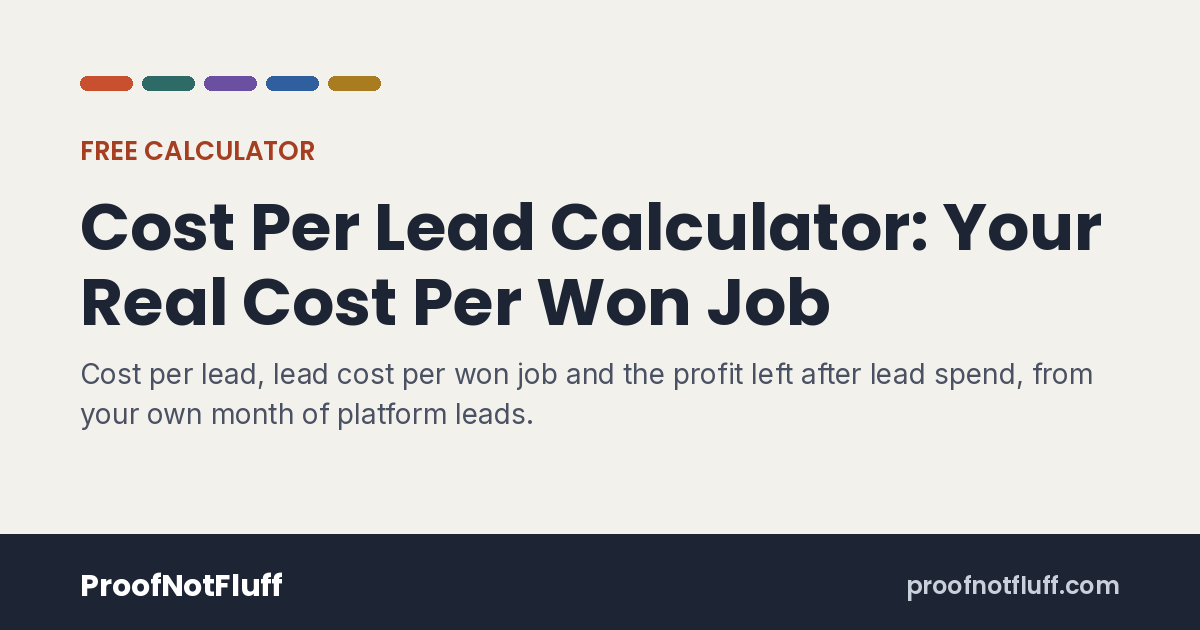
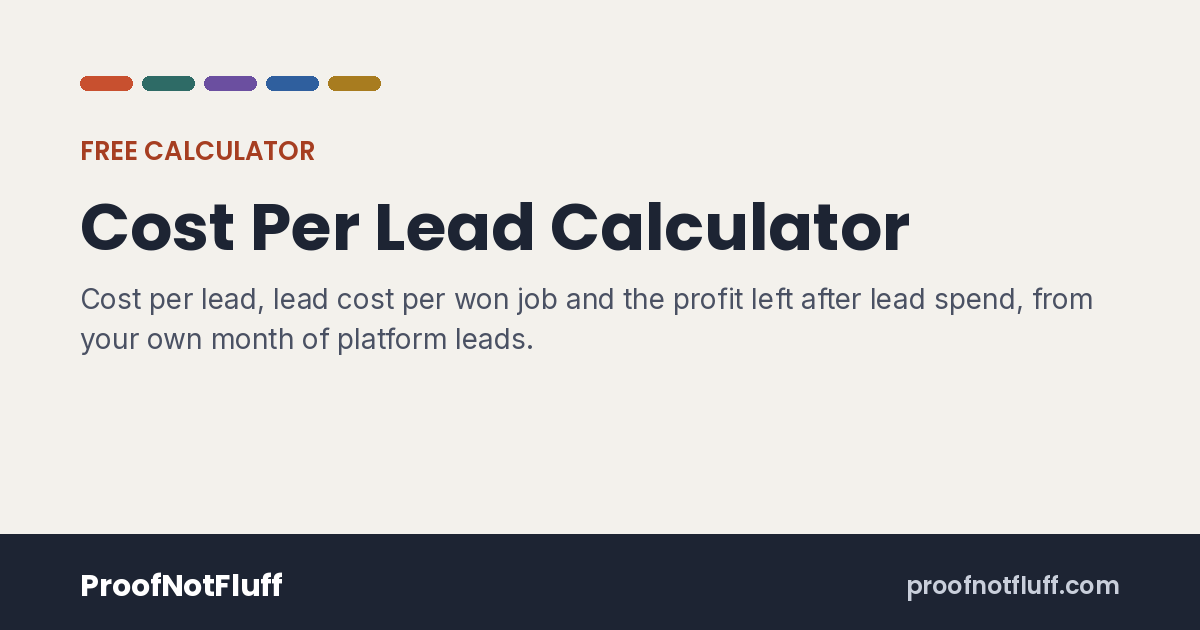
Lead cost calculator reworked to break-even only (still a draft, gates running); stage counts wired
Claude-Session: https://claude.ai/code/session_01EksLfs4N6Y2tHCuF8yD9S9

Changed region(s): [[0.0617, 0.4222, 0.925, 0.6937], [0.74, 0.3317, 0.925, 0.4222]]

diff --git a/docs/cost-per-lead-calculator/index.html b/docs/cost-per-lead-calculator/index.html
@@ -7,12 +7,12 @@
 <link rel="icon" href="../assets/favicon.svg" type="image/svg+xml">
 <link rel="preload" href="../assets/fonts/poppins-700.woff2" as="font" type="font/woff2" crossorigin>
 <link rel="stylesheet" href="../assets/pnf.css">
-<script type="application/ld+json">{"@context": "https://schema.org", "@type": "WebApplication", "name": "Cost Per Lead Calculator: Your Real Cost Per Won Job", "url": "https://proofnotfluff.com/cost-per-lead-calculator/", "applicationCategory": "BusinessApplication", "operatingSystem": "Any", "isAccessibleForFree": true, "offers": {"@type": "Offer", "price": "0", "priceCurrency": "USD"}, "publisher": {"@type": "Organization", "name": "ProofNotFluff"}}</script><script type="application/ld+json">{"@context": "https://schema.org", "@type": "FAQPage", "mainEntity": [{"@type": "Question", "name": "How do I calculate cost per lead?", "acceptedAnswer": {"@type": "Answer", "text": "Divide what you paid for leads by the number of leads you were charged for. In the example, $1,200 for 40 leads is $30.00 a lead."}}, {"@type": "Question", "name": "What is cost per won job?", "acceptedAnswer": {"@type": "Answer", "text": "Your lead spend divided by the jobs you won from those leads. In the example, $1,200 and 6 won jobs is $200.00 a job, though each lead cost $30.00."}}, {"@type": "Question", "name": "Are Angi or Thumbtack leads worth it?", "acceptedAnswer": {"@type": "Answer", "text": "Only your own numbers can say. If what a job leaves you after its direct cost is more than your lead cost per won job, the leads made money that month. In the example a job leaves $170.00 and the leads cost $200.00 per won job, so they lost $30.00 a job."}}, {"@type": "Question", "name": "What counts as the direct cost of a job?", "acceptedAnswer": {"@type": "Answer", "text": "What you spend only because you did that job: labor you pay for it, supplies or chemicals, gas and parking. Leave out the lead itself and the fixed bills you pay anyway."}}, {"@type": "Question", "name": "Will a platform give me a credit for a bad lead?", "acceptedAnswer": {"@type": "Answer", "text": "Each platform has its own rules and decides each request, so this page can't tell you. The checklist above lists records worth keeping if you ask."}}, {"@type": "Question", "name": "How are your City-record lists different from platform leads?", "acceptedAnswer": {"@type": "Answer", "text": "A platform lead is a person who asked for a quote. Our lists are City records, such as food inspections, new business licenses and building permits, sorted by trade. Nobody on them has asked for a quote, so you make the first contact."}}, {"@type": "Question", "name": "Is this financial advice?", "acceptedAnswer": {"@type": "Answer", "text": "No. It is arithmetic on the numbers you type."}}]}</script><script type="application/ld+json">{"@context": "https://schema.org", "@type": "BreadcrumbList", "itemListElement": [{"@type": "ListItem", "position": 1, "name": "Home", "item": "https://proofnotfluff.com/"}, {"@type": "ListItem", "position": 2, "name": "Free calculators", "item": "https://proofnotfluff.com/calculators/"}, {"@type": "ListItem", "position": 3, "name": "Cost Per Lead Calculator: Your Real Cost Per Won Job"}]}</script>
+<script type="application/ld+json">{"@context": "https://schema.org", "@type": "WebApplication", "name": "Cost Per Lead Calculator", "url": "https://proofnotfluff.com/cost-per-lead-calculator/", "applicationCategory": "BusinessApplication", "operatingSystem": "Any", "isAccessibleForFree": true, "offers": {"@type": "Offer", "price": "0", "priceCurrency": "USD"}, "publisher": {"@type": "Organization", "name": "ProofNotFluff"}}</script><script type="application/ld+json">{"@context": "https://schema.org", "@type": "FAQPage", "mainEntity": [{"@type": "Question", "name": "How do I calculate cost per lead?", "acceptedAnswer": {"@type": "Answer", "text": "Divide what you paid for leads by the number of leads you were charged for. In the example, $1,200 for 40 leads is $30.00 a lead."}}, {"@type": "Question", "name": "What is cost per won job?", "acceptedAnswer": {"@type": "Answer", "text": "Your lead spend divided by the jobs you won from those leads. In the example, $1,200 and 6 won jobs is $200.00 a job, though each lead cost $30.00."}}, {"@type": "Question", "name": "Are Angi or Thumbtack leads worth it?", "acceptedAnswer": {"@type": "Answer", "text": "Only your own numbers can say. If what a job leaves you after its direct cost is more than your lead cost per won job, the leads made money that month. In the example a job leaves $170.00 and the leads cost $200.00 per won job, so they lost $30.00 a job."}}, {"@type": "Question", "name": "What counts as the direct cost of a job?", "acceptedAnswer": {"@type": "Answer", "text": "What you spend only because you did that job: labor you pay for it, supplies or chemicals, gas and parking. Leave out the lead itself and the fixed bills you pay anyway."}}, {"@type": "Question", "name": "Will a platform give me a credit for a bad lead?", "acceptedAnswer": {"@type": "Answer", "text": "Each platform has its own rules and decides each request, so this page can't tell you. The checklist above lists records worth keeping if you ask."}}, {"@type": "Question", "name": "Do your lists cost less per won job than Angi or Thumbtack?", "acceptedAnswer": {"@type": "Answer", "text": "We can't say. Nobody on our lists has asked for a quote, and we have no data on how many records become jobs. The page shows break-even instead: the won jobs a month each list needs to cover its price, at your own job profit."}}, {"@type": "Question", "name": "How are your City-record lists different from platform leads?", "acceptedAnswer": {"@type": "Answer", "text": "A platform lead is a person who asked for a quote. Our lists are City records, such as food inspections, new business licenses and building permits, sorted by trade. Nobody on them has asked for a quote, so you make the first contact."}}, {"@type": "Question", "name": "Is this financial advice?", "acceptedAnswer": {"@type": "Answer", "text": "No. It is arithmetic on the numbers you type."}}]}</script><script type="application/ld+json">{"@context": "https://schema.org", "@type": "BreadcrumbList", "itemListElement": [{"@type": "ListItem", "position": 1, "name": "Home", "item": "https://proofnotfluff.com/"}, {"@type": "ListItem", "position": 2, "name": "Free calculators", "item": "https://proofnotfluff.com/calculators/"}, {"@type": "ListItem", "position": 3, "name": "Cost Per Lead Calculator"}]}</script>
 </head><body class="has-mbar">
 <a class="skip" href="#main">Skip to content</a>
 <header class="top"><div class="wrap"><a class="brandlink" href="../"><span class="brand">ProofNotFluff</span><span class="bars" aria-hidden="true"><i></i><i></i><i></i><i></i><i></i></span></a>
 <nav class="top" aria-label="Main"><a href="../shop/">Shop</a><a href="../calculators/" aria-current="page">Free calculators</a><a href="../questions/">Questions</a></nav></div></header>
-<main class="wrap" id="main"><nav class="crumbs" aria-label="Breadcrumb"><ol><li><a href="../">Home</a></li><li><a href="../calculators/">Free calculators</a></li><li aria-current="page">Cost Per Lead Calculator: Your Real Cost Per Won Job</li></ol></nav><p class="eyebrow">Free calculator</p><h1>Cost Per Lead Calculator: Your Real Cost Per Won Job</h1><p class="lede">For cleaning and pest control owners who pay Angi, Thumbtack, HomeAdvisor or a similar site for leads. Type one month of lead spend, leads, quotes and jobs won. You get your cost per lead, the lead cost of each job you actually won, and the profit those jobs left after the lead bill. The math is the same for any trade that buys leads. Free, no sign-up.</p><div class="grid"><form class="card" id="calc" novalidate>
+<main class="wrap" id="main"><nav class="crumbs" aria-label="Breadcrumb"><ol><li><a href="../">Home</a></li><li><a href="../calculators/">Free calculators</a></li><li aria-current="page">Cost Per Lead Calculator</li></ol></nav><p class="eyebrow">Free calculator</p><h1>Cost Per Lead Calculator</h1><p class="lede">For cleaning and pest control owners who pay Angi, Thumbtack, HomeAdvisor or a similar site for leads. Type one month of lead spend, leads, quotes and jobs won. You get your cost per lead, the lead cost of each job you actually won, and the profit those jobs left after the lead bill. The math is the same for any trade that buys leads. Free, no sign-up.</p><div class="grid"><form class="card" id="calc" novalidate>
 <fieldset><legend>One month of platform leads</legend>
 <div class="row"><label for="spend">What you paid for leads this month<small>Angi, Thumbtack, HomeAdvisor, Bark, Google and the like, all together</small></label><div class="field has-pre"><span class=pre>$</span><input id="spend" data-in="spend" type="text" inputmode="decimal" value="1,200" autocomplete="off"></div></div>
 <div class="row"><label for="leads">Leads you paid for<small>Every lead charged, good or bad</small></label><div class="field"><input id="leads" data-in="leads" type="text" inputmode="decimal" value="40" autocomplete="off"></div></div>
@@ -22,12 +22,15 @@
 <fieldset><legend>An average won job</legend>
 <div class="row"><label for="avgJob">Average job revenue<small>What the customer pays for one job</small></label><div class="field has-pre"><span class=pre>$</span><input id="avgJob" data-in="avgJob" type="text" inputmode="decimal" value="280" autocomplete="off"></div></div>
 <div class="row"><label for="jobCost">Direct cost of one job<small>Labor you pay, supplies or chemicals, gas. Not the lead.</small></label><div class="field has-pre"><span class=pre>$</span><input id="jobCost" data-in="jobCost" type="text" inputmode="decimal" value="110" autocomplete="off"></div></div>
+</fieldset>
+<fieldset><legend>A scenario on your numbers (optional)</legend>
+<div class="row"><label for="scenJobs">Won jobs a month a City-record list might bring you<small>Your own guess. We have no data on how many records become jobs</small></label><div class="field"><input id="scenJobs" data-in="scenJobs" type="text" inputmode="decimal" value="1" autocomplete="off"></div></div>
 </fieldset></form><div class="sticky"><div class="card" aria-live="polite">
 <div class="tiles">
-<div class="tile key"><div class="lab">Lead cost per won job</div><div class="val" data-out="cpj" data-never="No jobs yet" data-never-if="noJobs">$0</div><div class="sub">What you paid in leads for each yes</div></div>
+<div class="tile key"><div class="lab">Lead cost per won job</div><div class="val" data-out="cpj" data-never="No jobs yet" data-never-if="cpjNone">$0</div><div class="sub">What you paid in leads for each yes</div></div>
 <div class="tile"><div class="lab">Cost per lead</div><div class="val" data-out="cpl">$0</div><div class="sub">Per quote: <span data-out="cpq">$0</span></div></div>
 <div class="tile"><div class="lab">Profit left after lead spend</div><div class="val" data-out="profit" data-fmt="money0">$0</div><div class="sub">This month, all won jobs</div></div>
-<div class="tile"><div class="lab">Leads that became jobs</div><div class="val" data-pct="leadToJob">0%</div><div class="sub">Quotes won: <span data-pct="winRate">0%</span></div></div>
+<div class="tile"><div class="lab">Most a won job can cost</div><div class="val" data-out="maxCost">$0</div><div class="sub">In leads, before the job loses money</div></div>
 </div>
 <ul class="lines">
 <li><span>Revenue from won jobs</span><span data-out="revenue" data-fmt="money0">$0</span></li>
@@ -38,6 +41,8 @@
 <li><span>One job: profit before the lead</span><span data-out="perJob">$0</span></li>
 <li><span>One job: after its share of lead spend</span><span data-out="afterLead">$0</span></li>
 <li><span>Lead spend as a share of job revenue</span><span data-pct="leadShare">0%</span></li>
+<li><span>Leads that became jobs</span><span data-pct="leadToJob">0%</span></li>
+<li><span>Quotes won</span><span data-pct="winRate">0%</span></li>
 </ul>
 <div class="callout" data-show-if="pos > 0">Leads ate <b data-pct="eatsShare">0%</b> of what each job left you. You need <b data-out="breakEvenJobs" data-fmt="int">0</b> won jobs a month to cover this lead spend.</div>
 <div class="callout warn" data-show-if="neg > 0">These leads cost <b data-out="loss" data-fmt="money0">$0</b> more than the jobs left you. You needed <b data-out="breakEvenJobs" data-fmt="int">0</b> won jobs, not <b data-out="jobs" data-fmt="int">0</b>, to cover the spend.</div>
@@ -46,7 +51,7 @@
 <div class="callout warn" data-show-if="odd > 0">More quotes than leads, or more jobs than quotes? Check the counts: the rates below the tiles use them.</div>
 <div class="callout warn" data-show-if="none > 0">Type one month of lead spend, leads and jobs.</div>
 </div></div>
-<div class="mbar" aria-hidden="true"><span>Per won job <b data-out="cpj">$0</b></span><span>Profit <b data-out="profit" data-fmt="money0">$0</b></span></div></div><section class="block" id="compare"><h2>How that compares with our City-record lists</h2><p>A platform lead is a person who asked for a quote. Our lists are something else: the City&#x27;s own public records, cleaned and sorted by trade, such as a restaurant whose latest inspection cited pests or a business that just got its license. Nobody on them has asked for a quote, and you make the first contact, so we can&#x27;t tell you how many become jobs and we don&#x27;t guess.</p><p>What you can compare is price against what one job leaves you. The last column uses the job profit you typed above: the won jobs a month a list needs before it pays for itself.</p><table class="mt lc-tbl"><thead><tr><th scope="col">List</th><th scope="col">Price</th><th scope="col">Jobs to pay for it</th></tr></thead><tbody><tr><th scope="row"><b>Chicago Restaurant Inspection Leads</b><br><small>For pest control. 89 Chicago food places failed or passed with conditions with a pest violation in the last 30 days (City data pulled Oct 24, 2026)</small></th><td>$39<br><small>a month</small></td><td><span data-out="cover0" data-fmt="int" data-never="None" data-never-if="coverNever0">0</span></td></tr><tr><th scope="row"><b>Chicago New Business Licenses</b><br><small>For commercial cleaning and pest control. 63 new business licenses at Chicago business sites in the latest week, 236 in 30 days (City data pulled Oct 24, 2026)</small></th><td>$29<br><small>a month</small></td><td><span data-out="cover1" data-fmt="int" data-never="None" data-never-if="coverNever1">0</span></td></tr><tr><th scope="row"><b>Chicago Construction Cleaning Leads</b><br><small>For post-construction cleaning. 1,133 open Chicago projects of $500,000 or more, 21 of them near finish (City data pulled Oct 19, 2026)</small></th><td>$29<br><small>a month</small></td><td><span data-out="cover2" data-fmt="int" data-never="None" data-never-if="coverNever2">0</span></td></tr><tr><th scope="row"><b>Austin Construction Cleaning Leads</b><br><small>For post-construction cleaning in Austin. 158 open Austin projects of $500,000 or more (City data pulled Oct 19, 2026)</small></th><td>$29<br><small>a month</small></td><td><span data-out="cover3" data-fmt="int" data-never="None" data-never-if="coverNever3">0</span></td></tr></tbody></table><p class="asof">Prices are each list&#x27;s price today. Counts come from each list&#x27;s own page and change every week.</p><div class="st-grid lc-cards"><article class="st-card"><div class="st-top"><span class="st-tag">Chicago · Restaurants</span><span class="st-price">$39<small> a month</small></span></div><h3>Chicago Restaurant Inspection Leads</h3><p>Fresh failed or conditional City inspections, sorted by violation, and places about to open.</p><div class="st-nums"><div><b>128</b><span>failed or conditional in our four categories, 30 days</span></div><div><b>131</b><span>license inspections, about to open</span></div></div><p>For hood cleaning, pest control, grease trap and kitchen cleaning companies.</p><div class="st-act"><a class="btn" href="../chicago-restaurant-inspection-leads/#sample">See this week's free sample</a><a class="st-btn2" href="https://proofnotfluff.gumroad.com/l/mlyiiz?utm_source=proofnotfluff&amp;utm_medium=calculator&amp;utm_campaign=chicago-restaurant-leads&amp;utm_content=cost-per-lead-calculator" rel="noopener">Start your 7-day free trial</a></div><p class="st-note st-trialnote">Card at checkout, nothing charged for 7 days. Cancel any time.</p></article><article class="st-card"><div class="st-top"><span class="st-tag">Chicago · New businesses</span><span class="st-price">$29<small> a month</small></span></div><h3>Chicago New Business Licenses</h3><p>New Chicago business licenses from the last 30 days, sorted by trade, with what the City&#x27;s record says about each business.</p><div class="st-nums"><div><b>236</b><span>new business licenses, last 30 days</span></div><div><b>63</b><span>licensed this week</span></div></div><p>For commercial cleaning and pest control companies, and any vendor who sells to new businesses.</p><div class="st-act"><a class="btn" href="../chicago-new-business-licenses/#sample">See this week's free sample</a><a class="st-btn2" href="https://proofnotfluff.gumroad.com/l/chicago-new-business-licenses?utm_source=proofnotfluff&amp;utm_medium=calculator&amp;utm_campaign=chicago-new-business-licenses&amp;utm_content=cost-per-lead-calculator" rel="noopener">Start your 7-day free trial</a></div><p class="st-note st-trialnote">Card at checkout, nothing charged for 7 days. Cancel any time.</p></article><article class="st-card"><div class="st-top"><span class="st-tag">Chicago · Construction</span><span class="st-price">$29<small> a month</small></span></div><h3>Chicago Construction Cleaning Leads</h3><p>Open apartment and commercial projects of $500,000 or more, the builder on each, closest to a final clean first.</p><div class="st-nums"><div><b>1,133</b><span>open projects, about $8.7 billion</span></div><div><b>21</b><span>near finish</span></div></div><p>For post-construction cleaning, window cleaning and pressure washing companies.</p><div class="st-act"><a class="btn" href="../chicago-construction-cleaning-leads/#near">See this week's free sample</a><a class="st-btn2" href="https://proofnotfluff.gumroad.com/l/vpnaoq?utm_source=proofnotfluff&amp;utm_medium=calculator&amp;utm_campaign=chicago-leads&amp;utm_content=cost-per-lead-calculator" rel="noopener">Start your 7-day free trial</a></div><p class="st-note st-trialnote">Card at checkout, nothing charged for 7 days. Cancel any time.</p></article><article class="st-card"><div class="st-top"><span class="st-tag">Austin · Construction</span><span class="st-price">$29<small> a month</small></span></div><h3>Austin Construction Cleaning Leads</h3><p>Open commercial and apartment projects of $500,000 or more in Austin and the builders running them.</p><div class="st-nums"><div><b>158</b><span>open projects, about $6.24 billion</span></div><div><b>104</b><span>new buildings, at least 8,303 homes</span></div></div><p>For post-construction cleaning, window cleaning and pressure washing companies.</p><div class="st-act"><a class="btn" href="../austin-construction-cleaning-leads/#near">See this week's free sample</a><a class="st-btn2" href="https://proofnotfluff.gumroad.com/l/vzokd?utm_source=proofnotfluff&amp;utm_medium=calculator&amp;utm_campaign=austin-construction-leads&amp;utm_content=cost-per-lead-calculator" rel="noopener">Start your 7-day free trial</a></div><p class="st-note st-trialnote">Card at checkout, nothing charged for 7 days. Cancel any time.</p></article></div></section><section class="block"><details class="lc-keep"><summary>Records worth keeping if you ask a platform for a credit</summary><p>Each platform sets its own rules for lead credits and decides each request. If you plan to ask, keep these records for every lead you dispute:</p><ul class="checks"><li>The date and time the lead arrived and the amount you were charged for it.</li><li>The request exactly as the platform sent it: the service, the location and the job details.</li><li>Every call, text and message you sent the customer, with the time.</li><li>What did not match: a wrong or disconnected number, a duplicate, a job outside your service area, or a service you don&#x27;t offer.</li><li>Screenshots of the lead and the charge, taken the day it arrived.</li><li>The platform&#x27;s credit rule as it read that day, with the date you copied it.</li></ul><p>Good records don&#x27;t mean a credit will be given. Check the platform&#x27;s current rules before you ask.</p></details></section><section class="block"><h2>How it works</h2><p>Cost per lead is what you paid for leads divided by the leads you were charged for. Cost per won job divides the same spend by the jobs you won, so it carries the leads that went nowhere. That second number is the one to set against what a job leaves you.</p><p>Profit left after lead spend is the revenue from the jobs you won, less their direct cost (labor you pay, supplies or chemicals, gas) and less the month&#x27;s lead bill. Your own time and fixed bills such as insurance and the truck payment stay out, so this is what the leads left you to cover them.</p><p>The rates come from your own counts: leads that became quotes, quotes that became jobs. The page uses nobody else&#x27;s close rates, and neither does the comparison with our lists.</p></section><section class="block"><h2>A worked example</h2><p>Say a house cleaner paid $1,200 for 40 leads in a month, sent 18 quotes and won 6 jobs at $280 each, with $110 of labor, supplies and gas per job. That is $30.00 a lead, $66.67 a quote and $200.00 in leads for each job won. The 6 jobs brought in $1,680 and cost $660 to do, leaving $1,020, so after the $1,200 lead bill the month lost $180. Each job left $170.00 before its lead cost and $30.00 less than nothing after it; covering that lead bill took 8 won jobs, not 6.</p></section><section class="block"><h2>Questions</h2><details><summary>How do I calculate cost per lead?</summary><p>Divide what you paid for leads by the number of leads you were charged for. In the example, $1,200 for 40 leads is $30.00 a lead.</p></details><details><summary>What is cost per won job?</summary><p>Your lead spend divided by the jobs you won from those leads. In the example, $1,200 and 6 won jobs is $200.00 a job, though each lead cost $30.00.</p></details><details><summary>Are Angi or Thumbtack leads worth it?</summary><p>Only your own numbers can say. If what a job leaves you after its direct cost is more than your lead cost per won job, the leads made money that month. In the example a job leaves $170.00 and the leads cost $200.00 per won job, so they lost $30.00 a job.</p></details><details><summary>What counts as the direct cost of a job?</summary><p>What you spend only because you did that job: labor you pay for it, supplies or chemicals, gas and parking. Leave out the lead itself and the fixed bills you pay anyway.</p></details><details><summary>Will a platform give me a credit for a bad lead?</summary><p>Each platform has its own rules and decides each request, so this page can&#x27;t tell you. The checklist above lists records worth keeping if you ask.</p></details><details><summary>How are your City-record lists different from platform leads?</summary><p>A platform lead is a person who asked for a quote. Our lists are City records, such as food inspections, new business licenses and building permits, sorted by trade. Nobody on them has asked for a quote, so you make the first contact.</p></details><details><summary>Is this financial advice?</summary><p>No. It is arithmetic on the numbers you type.</p></details></section></main>
+<div class="mbar" aria-hidden="true"><span>Per won job <b data-out="cpj">$0</b></span><span>Profit <b data-out="profit" data-fmt="money0">$0</b></span></div></div><section class="block" id="compare"><h2>Break-even against our City-record lists</h2><p>A platform lead is a person who asked for a quote. Our lists are something else: the City&#x27;s own public records, cleaned and sorted by trade, such as a restaurant whose latest inspection cited pests or a business that just got its license. Nobody on them has asked for a quote, and you make the first contact.</p><p>So this section shows break-even only, on your numbers: how many won jobs a month each list needs to cover its price at your job profit, and what it would leave you if it won the number of jobs you guessed above. We don&#x27;t say any list costs less per won job than a platform, because we have no data on how many records become jobs.</p><table class="mt lc-tbl"><thead><tr><th scope="col">List</th><th scope="col">Price</th><th scope="col">Jobs to cover it</th><th scope="col">At your guess</th></tr></thead><tbody><tr><th scope="row"><b>Chicago Restaurant Inspection Leads</b><br><small>For pest control</small></th><td>$39<br><small>a month</small></td><td><span data-out="cover0" data-fmt="int" data-never="None" data-never-if="coverNever0">0</span></td><td><span data-out="scen0" data-fmt="money0">$0</span></td></tr><tr><th scope="row"><b>Chicago New Business Licenses</b><br><small>For commercial cleaning and pest control</small></th><td>$29<br><small>a month</small></td><td><span data-out="cover1" data-fmt="int" data-never="None" data-never-if="coverNever1">0</span></td><td><span data-out="scen1" data-fmt="money0">$0</span></td></tr><tr><th scope="row"><b>Chicago Construction Cleaning Leads</b><br><small>For post-construction cleaning</small></th><td>$29<br><small>a month</small></td><td><span data-out="cover2" data-fmt="int" data-never="None" data-never-if="coverNever2">0</span></td><td><span data-out="scen2" data-fmt="money0">$0</span></td></tr><tr><th scope="row"><b>Austin Construction Cleaning Leads</b><br><small>For post-construction cleaning in Austin</small></th><td>$29<br><small>a month</small></td><td><span data-out="cover3" data-fmt="int" data-never="None" data-never-if="coverNever3">0</span></td><td><span data-out="scen3" data-fmt="money0">$0</span></td></tr></tbody></table><p class="asof">Prices are each list&#x27;s price today. Each card&#x27;s counts come from that list&#x27;s own page and change every week.</p><div class="st-grid lc-cards"><article class="st-card"><div class="st-top"><span class="st-tag">Chicago · Restaurants</span><span class="st-price">$39<small> a month</small></span></div><h3>Chicago Restaurant Inspection Leads</h3><p>Fresh failed or conditional City inspections, sorted by violation, and places about to open.</p><div class="st-nums"><div><b>128</b><span>failed or conditional in our four categories, 30 days</span></div><div><b>131</b><span>license inspections, about to open</span></div></div><p>For hood cleaning, pest control, grease trap and kitchen cleaning companies.</p><div class="st-act"><a class="btn" href="../chicago-restaurant-inspection-leads/#sample">See this week's free sample</a><a class="st-btn2" data-stage="upgrade" href="https://proofnotfluff.gumroad.com/l/mlyiiz?utm_source=proofnotfluff&amp;utm_medium=calculator&amp;utm_campaign=chicago-restaurant-leads&amp;utm_content=cost-per-lead-calculator" rel="noopener">Start your 7-day free trial</a></div><p class="st-note st-trialnote">Card at checkout, nothing charged for 7 days. Cancel any time.</p></article><article class="st-card"><div class="st-top"><span class="st-tag">Chicago · New businesses</span><span class="st-price">$29<small> a month</small></span></div><h3>Chicago New Business Licenses</h3><p>New Chicago business licenses from the last 30 days, sorted by trade, with what the City&#x27;s record says about each business.</p><div class="st-nums"><div><b>236</b><span>new business licenses, last 30 days</span></div><div><b>63</b><span>licensed this week</span></div></div><p>For commercial cleaning and pest control companies, and any vendor who sells to new businesses.</p><div class="st-act"><a class="btn" href="../chicago-new-business-licenses/#sample">See this week's free sample</a><a class="st-btn2" data-stage="upgrade" href="https://proofnotfluff.gumroad.com/l/chicago-new-business-licenses?utm_source=proofnotfluff&amp;utm_medium=calculator&amp;utm_campaign=chicago-new-business-licenses&amp;utm_content=cost-per-lead-calculator" rel="noopener">Start your 7-day free trial</a></div><p class="st-note st-trialnote">Card at checkout, nothing charged for 7 days. Cancel any time.</p></article><article class="st-card"><div class="st-top"><span class="st-tag">Chicago · Construction</span><span class="st-price">$29<small> a month</small></span></div><h3>Chicago Construction Cleaning Leads</h3><p>Open apartment and commercial projects of $500,000 or more, the builder on each, closest to a final clean first.</p><div class="st-nums"><div><b>1,133</b><span>open projects, about $8.7 billion</span></div><div><b>21</b><span>near finish</span></div></div><p>For post-construction cleaning, window cleaning and pressure washing companies.</p><div class="st-act"><a class="btn" href="../chicago-construction-cleaning-leads/#near">See this week's free sample</a><a class="st-btn2" data-stage="upgrade" href="https://proofnotfluff.gumroad.com/l/vpnaoq?utm_source=proofnotfluff&amp;utm_medium=calculator&amp;utm_campaign=chicago-leads&amp;utm_content=cost-per-lead-calculator" rel="noopener">Start your 7-day free trial</a></div><p class="st-note st-trialnote">Card at checkout, nothing charged for 7 days. Cancel any time.</p></article><article class="st-card"><div class="st-top"><span class="st-tag">Austin · Construction</span><span class="st-price">$29<small> a month</small></span></div><h3>Austin Construction Cleaning Leads</h3><p>Open commercial and apartment projects of $500,000 or more in Austin and the builders running them.</p><div class="st-nums"><div><b>158</b><span>open projects, about $6.24 billion</span></div><div><b>104</b><span>new buildings, at least 8,303 homes</span></div></div><p>For post-construction cleaning, window cleaning and pressure washing companies.</p><div class="st-act"><a class="btn" href="../austin-construction-cleaning-leads/#near">See this week's free sample</a><a class="st-btn2" data-stage="upgrade" href="https://proofnotfluff.gumroad.com/l/vzokd?utm_source=proofnotfluff&amp;utm_medium=calculator&amp;utm_campaign=austin-construction-leads&amp;utm_content=cost-per-lead-calculator" rel="noopener">Start your 7-day free trial</a></div><p class="st-note st-trialnote">Card at checkout, nothing charged for 7 days. Cancel any time.</p></article></div></section><section class="block"><h2>If you ask a platform for a credit</h2><p>Each platform sets its own rules for lead credits and decides each request. If you plan to ask, these records are worth keeping for every lead you dispute:</p><ul class="checks"><li>The date and time the lead arrived and the amount you were charged for it.</li><li>The request exactly as the platform sent it: the service, the location and the job details.</li><li>Every call, text and message you sent the customer, with the time.</li><li>What did not match: a wrong or disconnected number, a duplicate, a job outside your service area, or a service you don&#x27;t offer.</li><li>Screenshots of the lead and the charge, taken the day it arrived.</li><li>The platform&#x27;s credit rule as it read that day, with the date you copied it.</li></ul><p>Good records don&#x27;t mean a credit will be given. Check the platform&#x27;s current rules before you ask.</p></section><section class="block"><h2>How it works</h2><p>Cost per lead is what you paid for leads divided by the leads you were charged for. Cost per won job divides the same spend by the jobs you won, so it carries the leads that went nowhere. That second number is the one to set against what a job leaves you.</p><p>Profit left after lead spend is the revenue from the jobs you won, less their direct cost (labor you pay, supplies or chemicals, gas) and less the month&#x27;s lead bill. Your own time and fixed bills such as insurance and the truck payment stay out, so this is what the leads left you to cover them.</p><p>The most a won job can cost is what one job leaves you before the lead: average job revenue less its direct cost. Pay more than that in leads for each job you win and the jobs lose money.</p><p>The rates come from your own counts: leads that became quotes, quotes that became jobs. The page uses nobody else&#x27;s close rates. The break-even against our lists uses only our prices, your job profit and your own guess of jobs.</p></section><section class="block"><h2>A worked example</h2><p>Say a house cleaner paid $1,200 for 40 leads in a month, sent 18 quotes and won 6 jobs at $280 each, with $110 of labor, supplies and gas per job. That is $30.00 a lead, $66.67 a quote and $200.00 in leads for each job won. The 6 jobs brought in $1,680 and cost $660 to do, leaving $1,020, so after the $1,200 lead bill the month lost $180. Each job left $170.00 before its lead cost and $30.00 less than nothing after it; covering that lead bill took 8 won jobs, not 6. The most a won job could cost was $170.00, so each one ran $30.00 over. At that job profit, one won job a month covers a $39 or a $29 list; if a list won 1 job a month, the guess in the example, it would leave $131 after a $39 price.</p></section><section class="block"><h2>Questions</h2><details><summary>How do I calculate cost per lead?</summary><p>Divide what you paid for leads by the number of leads you were charged for. In the example, $1,200 for 40 leads is $30.00 a lead.</p></details><details><summary>What is cost per won job?</summary><p>Your lead spend divided by the jobs you won from those leads. In the example, $1,200 and 6 won jobs is $200.00 a job, though each lead cost $30.00.</p></details><details><summary>Are Angi or Thumbtack leads worth it?</summary><p>Only your own numbers can say. If what a job leaves you after its direct cost is more than your lead cost per won job, the leads made money that month. In the example a job leaves $170.00 and the leads cost $200.00 per won job, so they lost $30.00 a job.</p></details><details><summary>What counts as the direct cost of a job?</summary><p>What you spend only because you did that job: labor you pay for it, supplies or chemicals, gas and parking. Leave out the lead itself and the fixed bills you pay anyway.</p></details><details><summary>Will a platform give me a credit for a bad lead?</summary><p>Each platform has its own rules and decides each request, so this page can&#x27;t tell you. The checklist above lists records worth keeping if you ask.</p></details><details><summary>Do your lists cost less per won job than Angi or Thumbtack?</summary><p>We can&#x27;t say. Nobody on our lists has asked for a quote, and we have no data on how many records become jobs. The page shows break-even instead: the won jobs a month each list needs to cover its price, at your own job profit.</p></details><details><summary>How are your City-record lists different from platform leads?</summary><p>A platform lead is a person who asked for a quote. Our lists are City records, such as food inspections, new business licenses and building permits, sorted by trade. Nobody on them has asked for a quote, so you make the first contact.</p></details><details><summary>Is this financial advice?</summary><p>No. It is arithmetic on the numbers you type.</p></details></section></main>
 <footer><div class="wrap">
 <nav class="fnav" aria-label="Footer"><a href="../shop/">Shop</a><a href="../calculators/">Free calculators</a><a href="../questions/">Questions</a><a href="../refunds/">Refunds and cancelling</a><a href="../privacy/">Privacy</a><a href="https://proofnotfluff.etsy.com">Workbooks on Etsy</a><a href="mailto:hello@proofnotfluff.com">hello@proofnotfluff.com</a></nav>
 <p>Estimates for planning only, based on the numbers you enter. Not tax, legal or financial advice. No outside rates are used on this page: every figure in the calculator is yours. List prices are our own; the counts come from each list&#x27;s data file, built from the City of Chicago and City of Austin data portals and refreshed weekly. Page built Oct 24, 2026.</p>
@@ -57,5 +62,5 @@
 (function(){var f=document.getElementById("calc"),L=[39, 29, 29, 29];
 /* Maths: PNF.leadCost in assets/pnf-calc.js; L is our list prices, read from site/store.json at build. */
 var M=function(i){return PNF.leadCost(i,L);};
-PNF.wire(f,M);PNF.after(f,M);window.PNF_MODEL=M;})();</script>
+PNF.wire(f,M);PNF.after(f,M);window.PNF_MODEL=M;PNF.stages(f,"../e/cost-per-lead-calculator/");})();</script>
 </body></html>

diff --git a/docs/assets/pnf-calc.test.js b/docs/assets/pnf-calc.test.js
@@ -622,6 +622,10 @@ check("lead cost per lead", LC.cpl, 30); check("lead cost per quote", LC.cpq, 66
 check("lead job profit before leads", LC.perJob, 170); check("lead profit after lead spend", LC.profit, -180);
 check("lead loss per job", LC.afterLead, -30); check("lead win rate", LC.winRate, 0.3333); check("lead break-even jobs", LC.breakEvenJobs, 8);
 check("lead $39 list covered by 1 job", LC.cover0, 1); check("lead loss flag", LC.neg, 1);
+check("lead most a won job can cost", LC.maxCost, 170); check("lead cost per won job over the max", LC.overMax, 1);
+const LS = P.leadCost({ spend: 1200, leads: 40, quotes: 18, jobs: 6, avgJob: 280, jobCost: 110, scenJobs: 1 }, [39, 29]);
+check("lead scenario: 1 job, $39 list", LS.scen0, 131); check("lead scenario: 1 job, $29 list", LS.scen1, 141);
+check("lead scenario: 0 jobs is the list price lost", P.leadCost({ avgJob: 280, jobCost: 110, scenJobs: 0 }, [39]).scen0, -39);
 check("lead $39 list, $15 job profit: 3 jobs", P.leadCost({ avgJob: 40, jobCost: 25 }, [39]).cover0, 3);
 check("lead no jobs: flag, no divide by zero", P.leadCost({ spend: 500, leads: 10 }).noJobs + P.leadCost({ spend: 500, leads: 10 }).cpj, 1);
 check("lead blank: none", P.leadCost({}).none, 1);

diff --git a/docs/assets/pnf-calc.js b/docs/assets/pnf-calc.js
@@ -734,10 +734,18 @@
     r.underwater = jobs > 0 && perJob <= 0 ? 1 : 0;
     r.odd = (quotes > leads && leads > 0) || (jobs > quotes && quotes > 0) ? 1 : 0;
     r.none = spend > 0 || leads > 0 || jobs > 0 ? 0 : 1;
+    // Break-even against a list (Todd, Oct 24: break-even only, never a claim that a list costs less per won job):
+    // the most a won job can cost in leads is what one job leaves (perJob); "scenJobs" is the owner's own guess of
+    // jobs a month a list might win, so the scenario profit = scenJobs x perJob - list price.
+    var scen = Math.max(0, Math.round(num(i.scenJobs)));
+    r.maxCost = perJob > 0 ? perJob : 0; r.scenJobs = scen; r.cpjNone = jobs === 0 ? 1 : 0;
+    r.overMax = jobs > 0 && perJob > 0 && cpj > perJob ? 1 : 0; r.underMax = jobs > 0 && perJob > 0 && cpj <= perJob ? 1 : 0;
+    r.overBy = cpj - perJob;
     (prices || []).forEach(function (p, n) {
       r["list" + n] = p;
       r["cover" + n] = perJob > 0 ? Math.ceil(p / perJob - 1e-9) : 0;
       r["coverNever" + n] = perJob > 0 ? 0 : 1;
+      r["scen" + n] = scen * perJob - p;
     });
     return r;
   }

diff --git a/tools/make_site.py b/tools/make_site.py
@@ -1533,8 +1533,9 @@ def _lead_lists(p):
 
 
 def lead_cost_page(p):
-    """Lead cost per won job (PNF.leadCost): a cleaning or pest owner's own month of platform leads, then a plain
-    comparison with our City-record lists using only our prices and this week's counts."""
+    """Lead cost per won job (PNF.leadCost): a cleaning or pest owner's own month of platform leads, then break-even
+    only against our City-record lists (Todd, Oct 24): jobs to cover each list's price, the most a won job can cost,
+    and a scenario on the owner's own guess. Never a claim that a list costs less per won job (no conversion data)."""
     d = p["defaults"]
     lists = _lead_lists(p)
     prices = [x["price"] for x in lists]
@@ -1548,13 +1549,16 @@ def lead_cost_page(p):
 <fieldset><legend>An average won job</legend>
 {field("avgJob", "Average job revenue", d["avgJob"], "What the customer pays for one job", pre="$")}
 {field("jobCost", "Direct cost of one job", d["jobCost"], "Labor you pay, supplies or chemicals, gas. Not the lead.", pre="$")}
+</fieldset>
+<fieldset><legend>A scenario on your numbers (optional)</legend>
+{field("scenJobs", "Won jobs a month a City-record list might bring you", d["scenJobs"], "Your own guess. We have no data on how many records become jobs")}
 </fieldset></form>"""
     results = """<div class="sticky"><div class="card" aria-live="polite">
 <div class="tiles">
-<div class="tile key"><div class="lab">Lead cost per won job</div><div class="val" data-out="cpj" data-never="No jobs yet" data-never-if="noJobs">$0</div><div class="sub">What you paid in leads for each yes</div></div>
+<div class="tile key"><div class="lab">Lead cost per won job</div><div class="val" data-out="cpj" data-never="No jobs yet" data-never-if="cpjNone">$0</div><div class="sub">What you paid in leads for each yes</div></div>
 <div class="tile"><div class="lab">Cost per lead</div><div class="val" data-out="cpl">$0</div><div class="sub">Per quote: <span data-out="cpq">$0</span></div></div>
 <div class="tile"><div class="lab">Profit left after lead spend</div><div class="val" data-out="profit" data-fmt="money0">$0</div><div class="sub">This month, all won jobs</div></div>
-<div class="tile"><div class="lab">Leads that became jobs</div><div class="val" data-pct="leadToJob">0%</div><div class="sub">Quotes won: <span data-pct="winRate">0%</span></div></div>
+<div class="tile"><div class="lab">Most a won job can cost</div><div class="val" data-out="maxCost">$0</div><div class="sub">In leads, before the job loses money</div></div>
 </div>
 <ul class="lines">
 <li><span>Revenue from won jobs</span><span data-out="revenue" data-fmt="money0">$0</span></li>
@@ -1565,6 +1569,8 @@ def lead_cost_page(p):
 <li><span>One job: profit before the lead</span><span data-out="perJob">$0</span></li>
 <li><span>One job: after its share of lead spend</span><span data-out="afterLead">$0</span></li>
 <li><span>Lead spend as a share of job revenue</span><span data-pct="leadShare">0%</span></li>
+<li><span>Leads that became jobs</span><span data-pct="leadToJob">0%</span></li>
+<li><span>Quotes won</span><span data-pct="winRate">0%</span></li>
 </ul>
 <div class="callout" data-show-if="pos > 0">Leads ate <b data-pct="eatsShare">0%</b> of what each job left you. You need <b data-out="breakEvenJobs" data-fmt="int">0</b> won jobs a month to cover this lead spend.</div>
 <div class="callout warn" data-show-if="neg > 0">These leads cost <b data-out="loss" data-fmt="money0">$0</b> more than the jobs left you. You needed <b data-out="breakEvenJobs" data-fmt="int">0</b> won jobs, not <b data-out="jobs" data-fmt="int">0</b>, to cover the spend.</div>
@@ -1577,27 +1583,28 @@ def lead_cost_page(p):
     by = {x["key"]: x for x in store_products()}
     rows, cards = "", ""
     for n, x in enumerate(lists):
-        rows += (f'<tr><th scope="row"><b>{E(x["name"])}</b><br><small>For {E(x["trade"])}. {E(x["count"])}</small></th>'
+        rows += (f'<tr><th scope="row"><b>{E(x["name"])}</b><br><small>For {E(x["trade"])}</small></th>'
                  f'<td>${x["price"]}<br><small>{E(x["per"])}</small></td>'
-                 f'<td><span data-out="cover{n}" data-fmt="int" data-never="None" data-never-if="coverNever{n}">0</span></td></tr>')
+                 f'<td><span data-out="cover{n}" data-fmt="int" data-never="None" data-never-if="coverNever{n}">0</span></td>'
+                 f'<td><span data-out="scen{n}" data-fmt="money0">$0</span></td></tr>')
         # the shop's own card; its Gumroad link also names this page (utm_content) so paid starts from here can be counted
         tag = f'utm_campaign={x["campaign"]}"'
         cards += product_card(by[x["key"]], "../", "calculator").replace(tag, f'utm_campaign={x["campaign"]}&amp;utm_content={p["slug"]}"')
     compare = (f'<section class="block" id="compare"><h2>{E(p["compare"]["title"])}</h2>'
                + "".join(f"<p>{E(t)}</p>" for t in p["compare"]["intro"])
                + '<table class="mt lc-tbl"><thead><tr><th scope="col">List</th><th scope="col">Price</th>'
-               '<th scope="col">Jobs to pay for it</th></tr></thead>'
+               '<th scope="col">Jobs to cover it</th><th scope="col">At your guess</th></tr></thead>'
                f'<tbody>{rows}</tbody></table>'
                + "".join(f'<p class="asof">{E(t)}</p>' for t in p["compare"]["notes"])
                + f'<div class="st-grid lc-cards">{cards}</div></section>')
-    checklist = (f'<section class="block"><details class="lc-keep"><summary>{E(p["keep"]["title"])}</summary>'
+    checklist = (f'<section class="block"><h2>{E(p["keep"]["title"])}</h2>'
                  + f'<p>{E(p["keep"]["lead"])}</p><ul class="checks">' + "".join(f"<li>{E(t)}</li>" for t in p["keep"]["items"])
-                 + f'</ul><p>{E(p["keep"]["tail"])}</p></details></section>')
+                 + f'</ul><p>{E(p["keep"]["tail"])}</p></section>')
     script = f"""<script>
 (function(){{var f=document.getElementById("calc"),L={json.dumps(prices)};
 /* Maths: PNF.leadCost in assets/pnf-calc.js; L is our list prices, read from site/store.json at build. */
 var M=function(i){{return PNF.leadCost(i,L);}};
-PNF.wire(f,M);PNF.after(f,M);window.PNF_MODEL=M;}})();</script>"""
+PNF.wire(f,M);PNF.after(f,M);window.PNF_MODEL=M;PNF.stages(f,"../e/{p["slug"]}/");}})();</script>"""
     return form, results + "\n<!--LC-EXTRA-->" + compare + checklist, script
 
 
